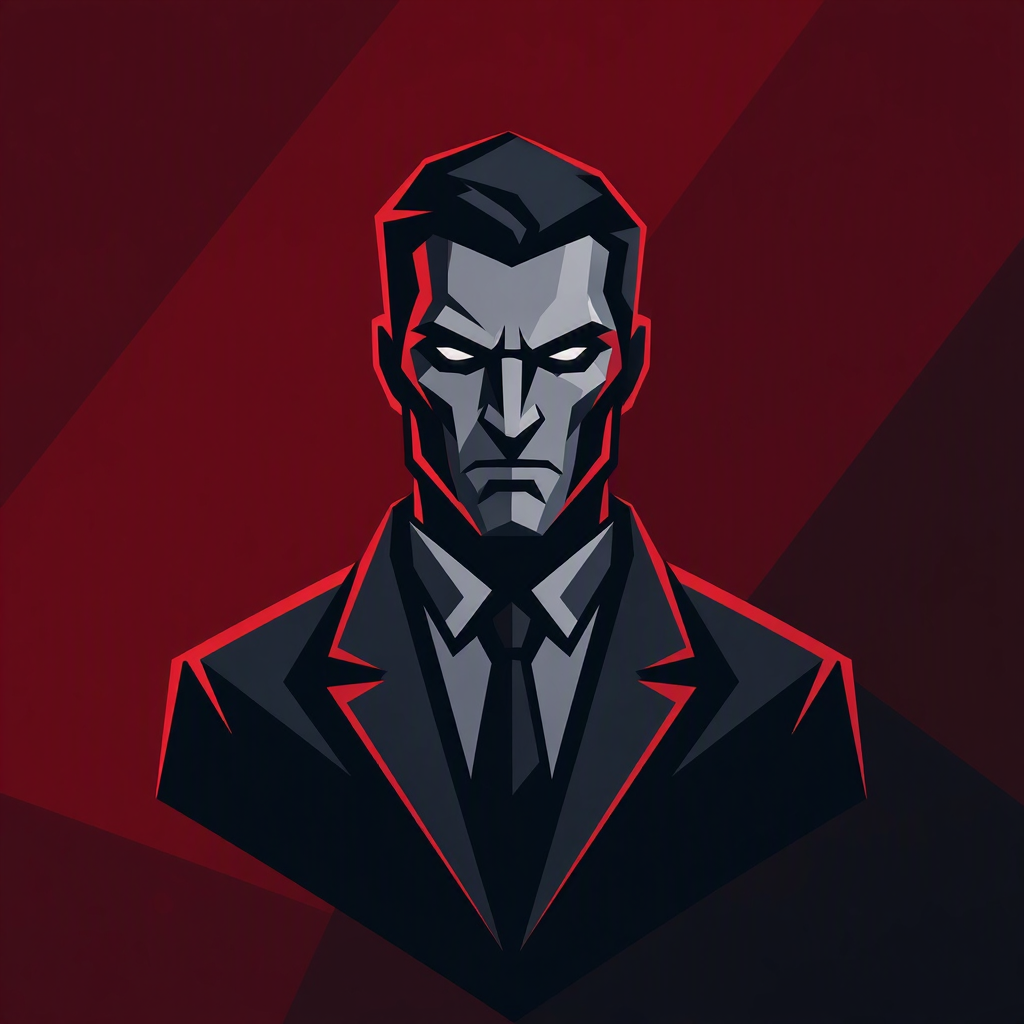
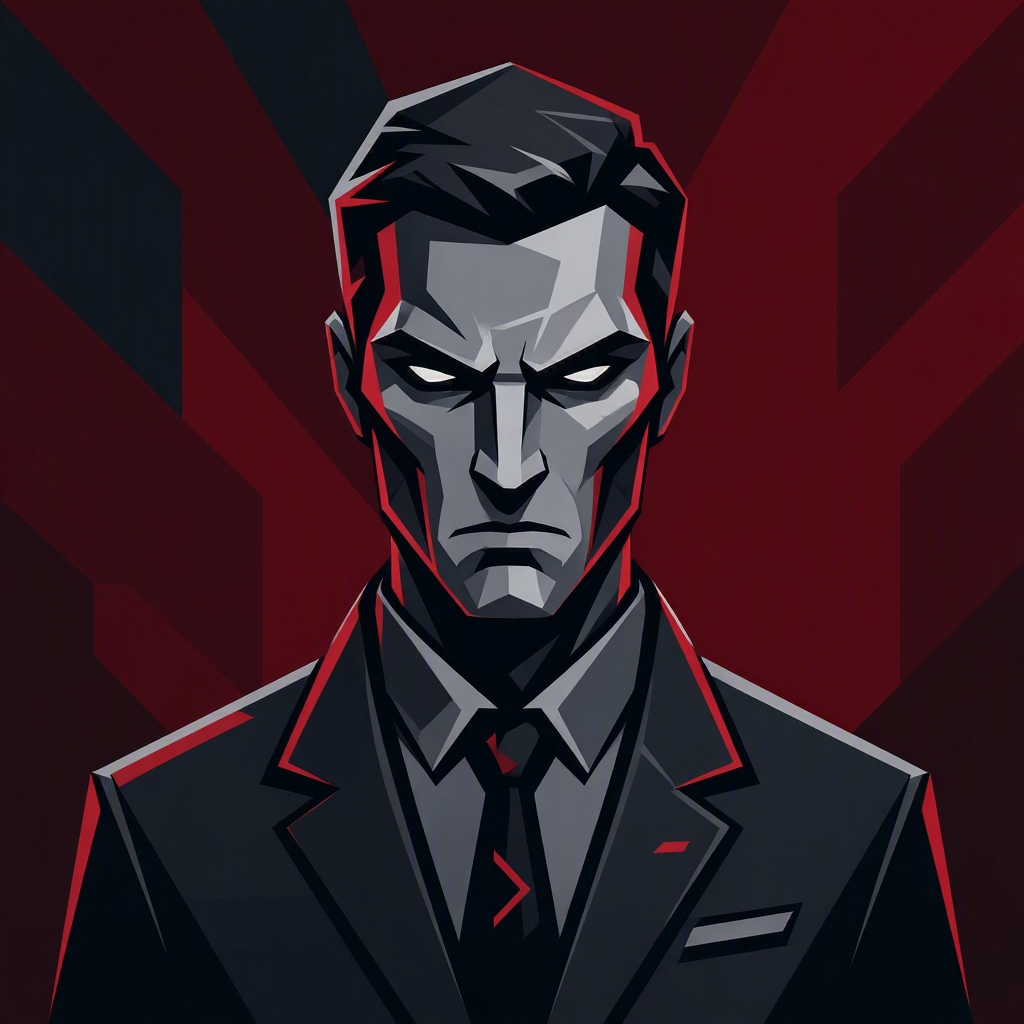
stand-up polish: humanize tool names, fix inspector churn, center short canvas panels
- Tool chips show human-readable action names (no raw snake_case); exact tool
  id still appears in the inspector tools/call trace.
- Relabel 'simulation fallback' to 'deterministic engine' (accurate, cleaner).
- De-oval the tool badge; style the new humanized tool/status spans.
- Fix inspector open/redirect churn: re-opening the same owner is a no-op, and
  the per-turn setActiveWorker refresh is suppressed during a stand-up so it no
  longer flickers/fights a row the player clicked.
- Send Response now names what it changed (saved to memory / stages re-planned)
  and the live header shows 'processing your response'.
- Center short canvas panels (resume splash, scenario brief) vertically instead
  of bottom-anchoring them, removing the void above.

diff --git a/submission/ui/game/story.js b/submission/ui/game/story.js
@@ -2572,9 +2572,16 @@ function setWorker(role, deployLabel, stateText, thinking, displayName) {
     // A worker stepping onto the stage clears the core-agent spotlight; the
     // reasoning theater takes over for worker chapters.
     if (!SPOTLIGHT_ROLES.has(role)) hideSpeakerSpotlight();
-    const inspectorRole = gameMasterRoleFromOwner(inspectorOwner);
-    if (inspectorOpen && inspectorRole && inspectorRole === role) openAgentInspector(inspectorOwner);
-    if (workerInspectorOpen && workerInspectorMatchesUpdate(workerInspectorOwner, role, displayName)) openWorkerInspector(workerInspectorOwner);
+    // Auto-refresh the open dossier to track the live speaker - but NOT during a
+    // stand-up. A stand-up fires setActiveWorker every turn (~1s); refreshing the
+    // inspector each time churns/flickers it and fights the player who just
+    // clicked a transcript row to read receipts. The row click owns the inspector
+    // during a stand-up; this passive refresh only runs outside one.
+    if (!stageLayerActive("standup-active")) {
+        const inspectorRole = gameMasterRoleFromOwner(inspectorOwner);
+        if (inspectorOpen && inspectorRole && inspectorRole === role) openAgentInspector(inspectorOwner);
+        if (workerInspectorOpen && workerInspectorMatchesUpdate(workerInspectorOwner, role, displayName)) openWorkerInspector(workerInspectorOwner);
+    }
 }
 
 // --- Active-agent inspector: the gorgeous floating card, on demand ----------
@@ -2666,6 +2673,10 @@ function castPortraitSrc(key) {
 function openAgentInspector(owner) {
     const stage = $("cast-stage");
     if (!stage) return;
+    // Re-open of the SAME agent that is already on screen is a no-op: the
+    // standup's per-turn refresh (setActiveWorker) calls this every turn, and
+    // without this guard it churns/flickers the dossier so it never settles.
+    if (inspectorOpen && inspectorOwner === owner && stage.innerHTML) return;
     setStageLayer("spotlight-active", false);
     // Owner given = the player tapped a specific party card; otherwise inspect
     // whoever is live on stage (the footer mini's front door).
@@ -2761,6 +2772,10 @@ function ensureWorkerInspectorStage() {
 
 function openWorkerInspector(owner) {
     const stage = ensureWorkerInspectorStage();
+    // Re-open of the SAME worker already on screen is a no-op (kills the churn
+    // from the standup's per-turn inspector refresh, which otherwise re-renders
+    // and redirects every turn so the dossier never stabilizes).
+    if (workerInspectorOpen && workerInspectorOwner === owner && stage.innerHTML) return;
     const ownerEvidence = cardEvidence[owner] || workerEvidenceFromState(owner) || liveCardEvidence(owner);
     const member = partyMembers().find((x) => x.name === owner || x.key === owner)
         || { role: (ownerEvidence && ownerEvidence.role) || "strategist", name: owner, key: owner };
@@ -4941,7 +4956,15 @@ function standupToolMarkup(turn) {
     const call = turn && turn.tool_call ? turn.tool_call : {};
     const tool = call.tool || "agent_turn";
     const status = call.status || "completed";
-    return `<div class="standup-tool"><code>${esc(tool)}</code><span>${esc(status)}</span></div>`;
+    // Show a human-readable action name (no raw snake_case) on the chip; the
+    // exact tool id still appears verbatim in the inspector's tools/call trace.
+    return `<div class="standup-tool"><span class="st-tool">${esc(humanizeTool(tool))}</span><span class="st-status">${esc(status)}</span></div>`;
+}
+
+// snake_case tool id -> readable label, e.g. render_org_graph -> "Render org graph".
+function humanizeTool(tool) {
+    const s = String(tool || "").replace(/_/g, " ").trim();
+    return s ? s.charAt(0).toUpperCase() + s.slice(1) : "Agent turn";
 }
 
 // Plain-language verb for the "researching/thinking" live indicator, derived
@@ -5030,7 +5053,7 @@ function standupSourceLabel(turn) {
         return "Foundry MAF";
     }
     if (source === "simulation" || framework.includes("deterministic")) {
-        return "simulation fallback";
+        return "deterministic engine";
     }
     return source || "";
 }
@@ -5090,7 +5113,7 @@ async function renderAgentStandup(standup, opts = {}) {
         setSceneHead("Game Master council", "The world engine ratifies your move",
             `forward motion - ${esc(standup.forward_motion || trigger.summary || "world updated")}`);
     } else {
-        const sourceLabel = standup.source === "foundry" ? "Foundry MAF" : "simulation fallback";
+        const sourceLabel = standup.source === "foundry" ? "Foundry MAF" : "deterministic engine";
         setSceneHead("Agent stand-up", "The party reacts to your call",
             `${sourceLabel} - ${esc(trigger.rule_id || "decision")}`);
     }
@@ -5235,7 +5258,7 @@ async function renderAgentStandup(standup, opts = {}) {
     setStandupStatus(interactive ? "your turn \u2014 respond below" : "round complete");
     const line = standup.next_brief_delta || trigger.summary || "The next worker brief now carries the choice.";
     const selection = (standup.orchestration && standup.orchestration.selection) || STANDUP_SELECTION;
-    const modeLabel = standup.source === "foundry" ? "Foundry MAF" : "simulation fallback";
+    const modeLabel = standup.source === "foundry" ? "Foundry MAF" : "deterministic engine";
     lens("reasoning", `Agent group chat: ${turns.length} workforce turns, ${selection} selection, ${modeLabel}, reacted to ${trigger.rule_id || "the CEO decision"}`);
     if (!isGameMasterStandup && allTurns.length !== turns.length) {
         lens("reliability", "Game Master and rival updates tracked outside the workforce stand-up; the team room only shows worker voices");
@@ -5329,6 +5352,7 @@ async function renderAgentStandup(standup, opts = {}) {
                 skipBtn.disabled = true;
                 inputEl.disabled = true;
                 if (statusEl) statusEl.textContent = "Sending response to worker memory...";
+                setStandupStatus("processing your response\u2026");
                 if (A.uiPress) { try { A.uiPress(); } catch (_) {} }
 
                 try {
@@ -5339,16 +5363,22 @@ async function renderAgentStandup(standup, opts = {}) {
                         setResourcesFromEconomics(responseState.state.economics, responseState.state.org || state.org);
                         if (responseState.state.org) setOrgPanel(responseState.state.org);
                     }
-                    if ((responseState.adapted_stage_ids || []).length) {
-                        lens("reasoning", `World Designer adapted ${responseState.adapted_stage_ids.length} pending stage(s) from your live stand-up response`);
+                    const adaptedCount = (responseState.adapted_stage_ids || []).length;
+                    if (adaptedCount) {
+                        lens("reasoning", `World Designer adapted ${adaptedCount} pending stage(s) from your live stand-up response`);
                     }
 
-                    // 2. Transform the input card into static message
+                    // 2. Transform the input card into static message - name what
+                    // the response actually did (saved to memory, stages adapted)
+                    // so the player sees their input changed the run, not a void.
+                    const appliedLine = adaptedCount
+                        ? `saved to memory \u00b7 World Designer re-planned ${adaptedCount} upcoming stage${adaptedCount > 1 ? "s" : ""}`
+                        : `saved to memory \u00b7 the workforce is folding it into the next brief`;
                     fsCard.innerHTML = `<div class="council-top">`
                         + `<img class="council-face" src="${state.founderAvatar || "/game/assets/generated/narrator.png"}" alt="" onerror="this.style.display='none'" />`
                         + `<div><div class="council-name">${esc(state.founderName || "CEO")} (You)</div><div class="council-role">Human Operator</div></div></div>`
                         + `<div class="council-says" style="margin-top: 10px; font-style: italic; color: var(--ink-dim);">&ldquo;${esc(val)}&rdquo;</div>`
-                        + `<div class="standup-handoff" style="color: var(--good-soft); margin-top: 8px;">response registered in memory ledger</div>`;
+                        + `<div class="standup-handoff" style="color: var(--good-soft); margin-top: 8px;">\u2713 ${esc(appliedLine)}</div>`;
 
                     // Add user turn to history
                     const userTurn = {

diff --git a/submission/ui/story.html b/submission/ui/story.html
@@ -314,6 +314,14 @@
             overflow: hidden;
             transition: width 220ms ease, margin-left 220ms ease;
         }
+        /* Short, self-contained panels (the resume splash and the scenario brief
+           card) are NOT tall artifacts - bottom-anchoring them leaves a large
+           void above. Center those vertically so they sit in the middle of the
+           stage. Tall artifacts (MRR chart, org graph) keep flex-end + fill. */
+        #diagram .world-canvas:has(.resume-splash),
+        #diagram .world-canvas.scenario-canvas {
+            align-items: center;
+        }
         /* Keep the world artifact readable when the non-modal speaker card is
            present: the canvas moves into the remaining lane instead of hiding
            underneath the character card. */
@@ -2576,12 +2584,12 @@
         }
         .standup-profile span { overflow: hidden; text-overflow: ellipsis; white-space: nowrap; }
         .standup-tool {
-            display: inline-flex; align-items: center; gap: 7px;
-            border: 1px solid rgba(91,140,255,0.22); border-radius: var(--radius-pill);
-            background: rgba(91,140,255,0.07); padding: 4px 8px; margin: 0 0 10px;
+            display: inline-flex; align-items: center; gap: 8px;
+            border: 1px solid rgba(91,140,255,0.22); border-radius: var(--radius-sm);
+            background: rgba(91,140,255,0.07); padding: 4px 9px; margin: 0 0 10px;
         }
-        .standup-tool code { font-family: var(--font-mono); font-size: 10px; color: var(--blue-soft); }
-        .standup-tool span { font-family: var(--font-mono); font-size: 8.5px; letter-spacing: 0.12em;
+        .standup-tool .st-tool { font-family: var(--font-mono); font-size: 10px; color: var(--blue-soft); letter-spacing: 0.02em; }
+        .standup-tool .st-status { font-family: var(--font-mono); font-size: 8.5px; letter-spacing: 0.12em;
             text-transform: uppercase; color: var(--ink-faint); }
         .standup-handoff { margin-top: 10px; font-family: var(--font-mono); font-size: 9px;
             letter-spacing: 0.1em; text-transform: uppercase; color: var(--gold-soft); }
@@ -4385,7 +4393,7 @@
     </div>
 
     <script src="/game/game/audio.js?v=11"></script>
-    <script type="module" src="/game/game/story.js?v=1269"></script>
+    <script type="module" src="/game/game/story.js?v=1275"></script>
     <script src="/game/game/intro.js?v=30"></script>
 </body>
 </html>